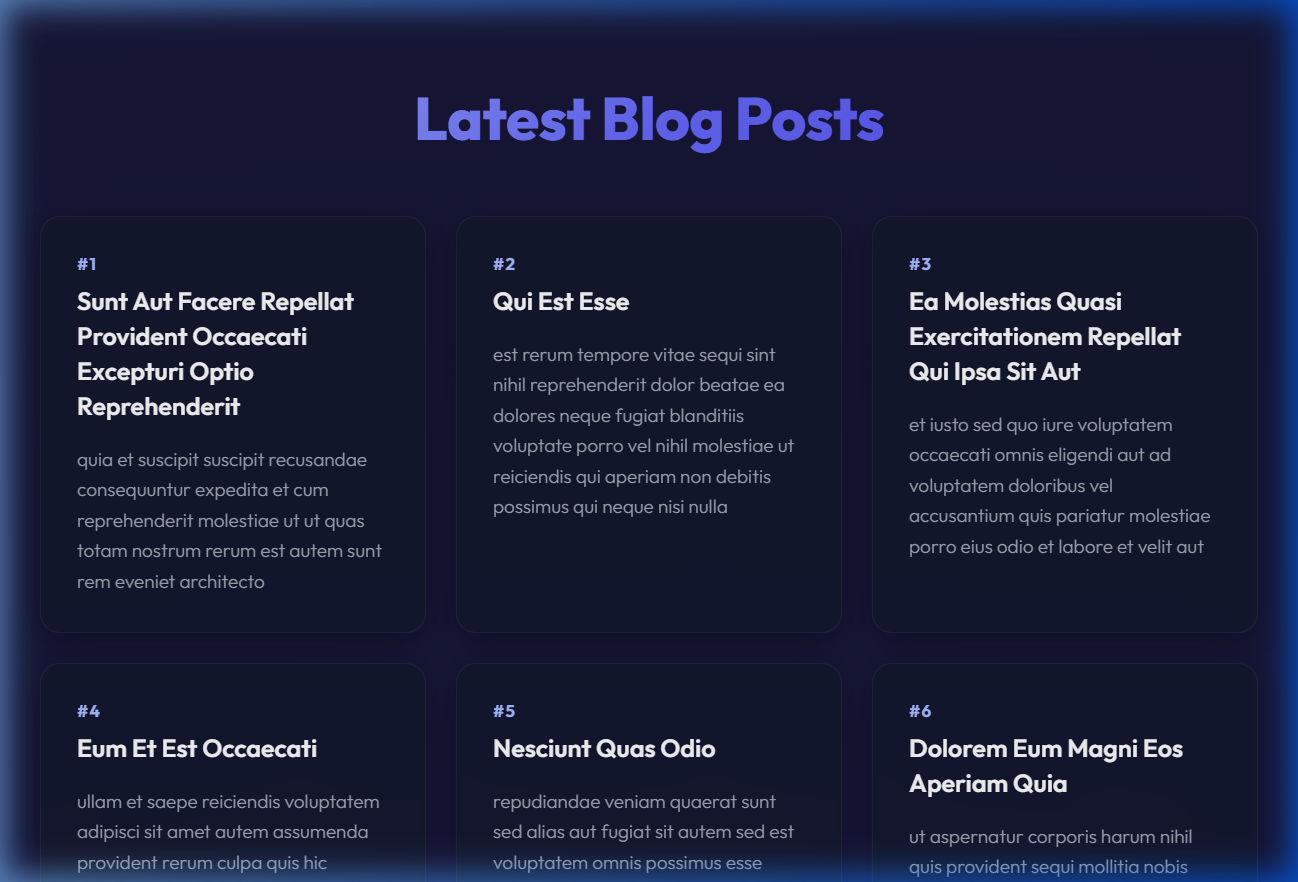
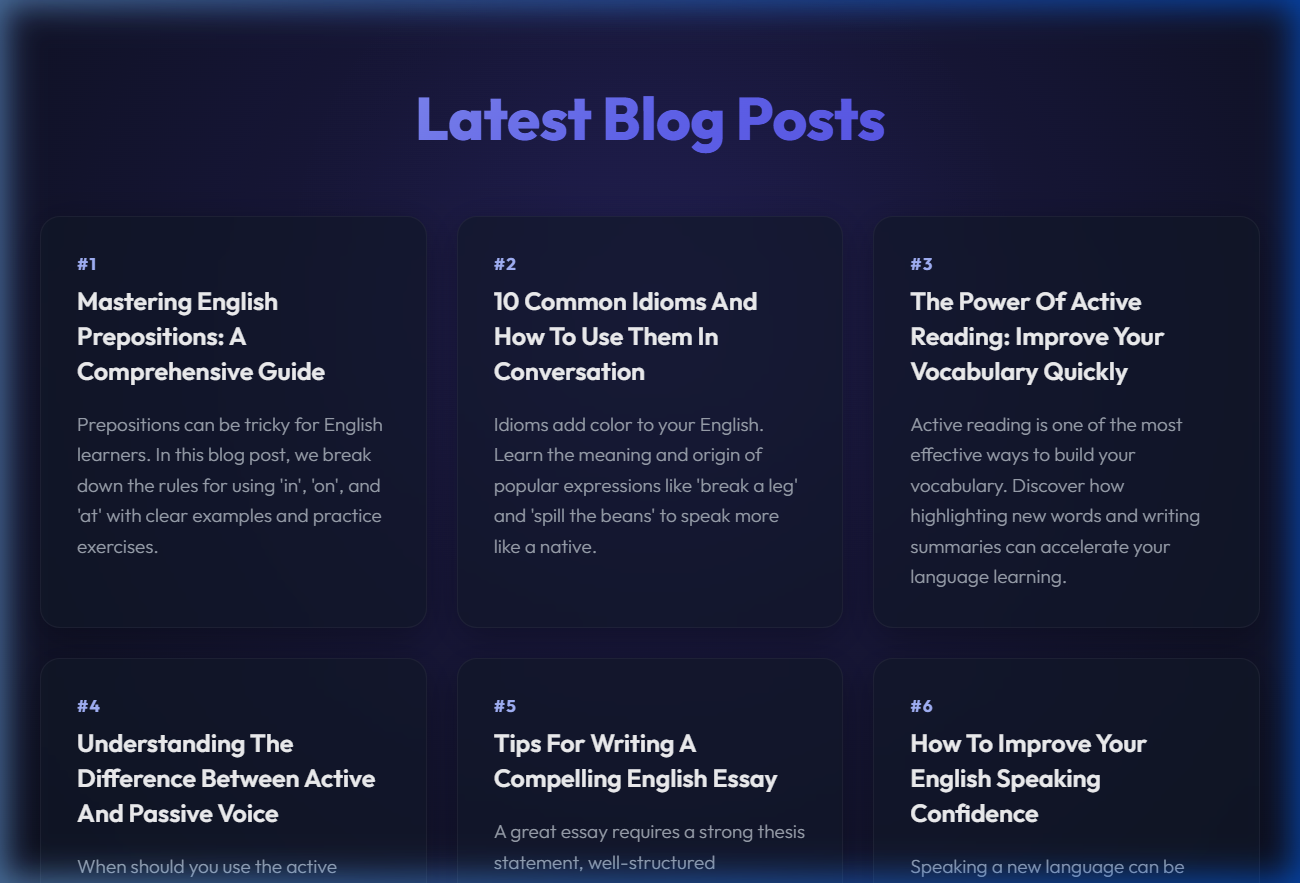
Update blogapp with English blog posts dataset

diff --git a/react/react4/blogapp/src/Posts.js b/react/react4/blogapp/src/Posts.js
@@ -10,7 +10,7 @@ class Posts extends Component {
   }
 
   loadPosts() {
-    fetch('https://jsonplaceholder.typicode.com/posts')
+    fetch('/english_posts.json')
       .then(response => {
         if (!response.ok) {
           throw new Error('Failed to fetch posts from API');